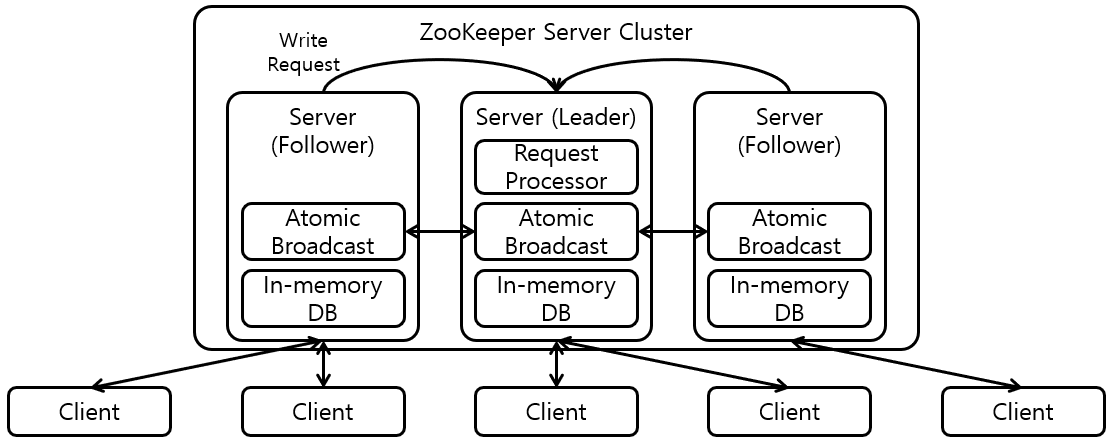
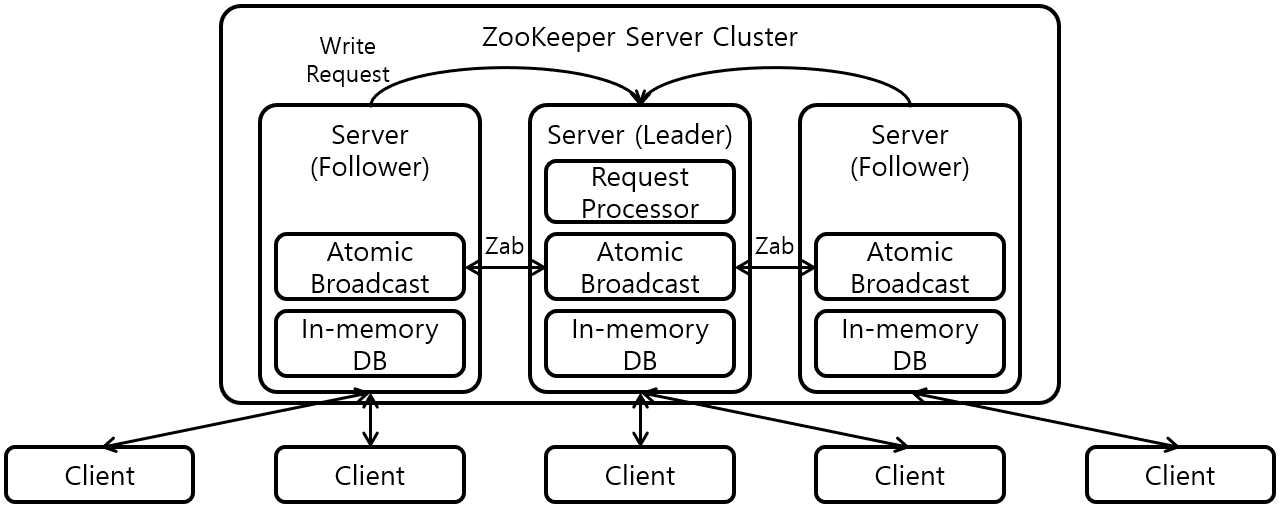
Update Zookeeper

diff --git a/_docs/theory_analysis/ZooKeeper.md b/_docs/theory_analysis/ZooKeeper.md
@@ -19,7 +19,7 @@ ZooKeeper는 분산 시스템 환경에서 Leader 선출, Node 상태, 분산 Lo
 
 분산 Coordinator는 분산 시스템의 일부분이 되어 동작하기 때문에 분산 Coordinator의 작동이 멈춘다면 분산 시스템도 정지하게 된다. ZooKeeper는 안전성을 확보하기 위해 다수의 Server를 이용하는 **Server Cluster - Client** 구조를 이용한다. Server Cluster는 하나의 **Leader**와 여러개의 **Follower**로 구성되어 있다. Server Cluster는 홀수 개수로 구성하는 것이 유리하다. Server간의 Consistency가 깨졌을 경우 과반수 이상의 Data를 기준으로 Consistency를 맞추기 때문이다.
 
-각 Server는 Request Processor, Atomic Broadcast, In-memory DB로 구성되어 있다. Request Processor는 Leader Server만 이용한다. Client로 부터 온 모든 ZNode Write 요청은 Leader Server에게 전달된다. Leader Server는 받은 ZNode Write 요청을 Request Processor에서 처리한다. 그 후 Atomic Broadcast를 통해 **Transaction**을 생성하여 ZNode Write 과정이 모든 Server에 올바르게 적용되도록 한다. ZNode 정보는 In-meomry DB에 저장된다. Local Filesystem에 In-memory DB의  Replication을 구성할 수 있다.
+각 Server는 Request Processor, Atomic Broadcast, In-memory DB로 구성되어 있다. Request Processor는 Leader Server만 이용한다. Client로 부터 온 모든 ZNode Write 요청은 Leader Server에게 전달된다. Leader Server는 받은 ZNode Write 요청을 Request Processor에서 처리한다. 그 후 Atomic Broadcast를 통해 **Transaction**을 생성 및 전파하여 ZNode Write 과정이 모든 Server에 올바르게 적용되도록 한다. Atomic Broadcast 사이의 Transaction 전파는 Zab(Zookeeper Atomic Broadcast Protocol)을 이용한다. Zab은 DB의 2-phase Commit과 유사한 Protocol이며 Leader-Propose, Follower-Accept, Leader-Commit 단계로 구성된다. ZNode 정보는 In-meomry DB에 저장된다. Local Filesystem에 In-memory DB의 Replication을 구성할 수 있다.
 
 Client는 Server에게 주기적으로 PING을 전송하여 Client의 동작을 알려준다. Server는 일정시간 Client로 부터 PING을 받지 못하면 Client/Network Issue가 발생했다고 간주하고 해당 Session을 종료한다. Client는 Server로부터 PING 응답을 받지 못하면 Server/Network Issue가 발생했다고 간주하고 다른 Server에게 연결을 시도한다.
 
